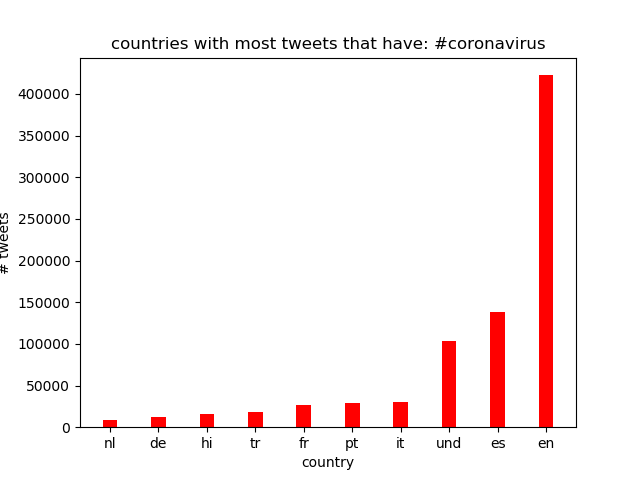
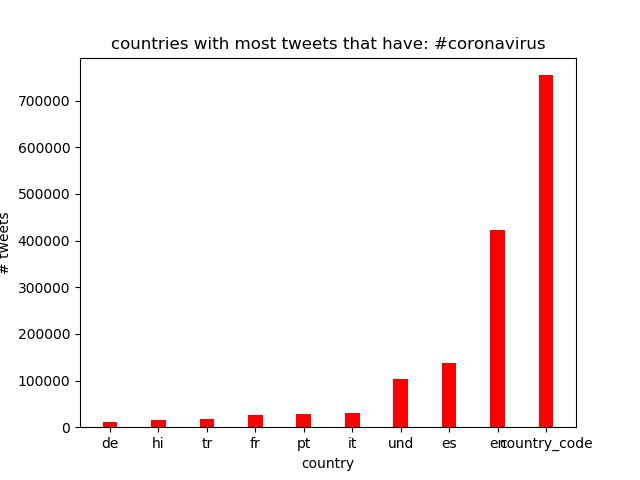
third

diff --git a/src/visualize.py b/src/visualize.py
@@ -44,8 +44,8 @@ if k[0] == "country_code":
     k = k[1:]
     v = v[1:]
 else:
-    k = k[:-1]
-    v = v[:-1]
+    k = k[1:]
+    v = v[1:]
 
 # test
 for i in range(len(k)):
@@ -76,7 +76,7 @@ else:
     if args.key == "#coronavirus":
         plt.savefig('eng_country_plot3.png')
     else:
-        plt.savefig('kor_country_plot3.png')
+        plt.savefig('kor_country_plot4.png')
 
 
 
